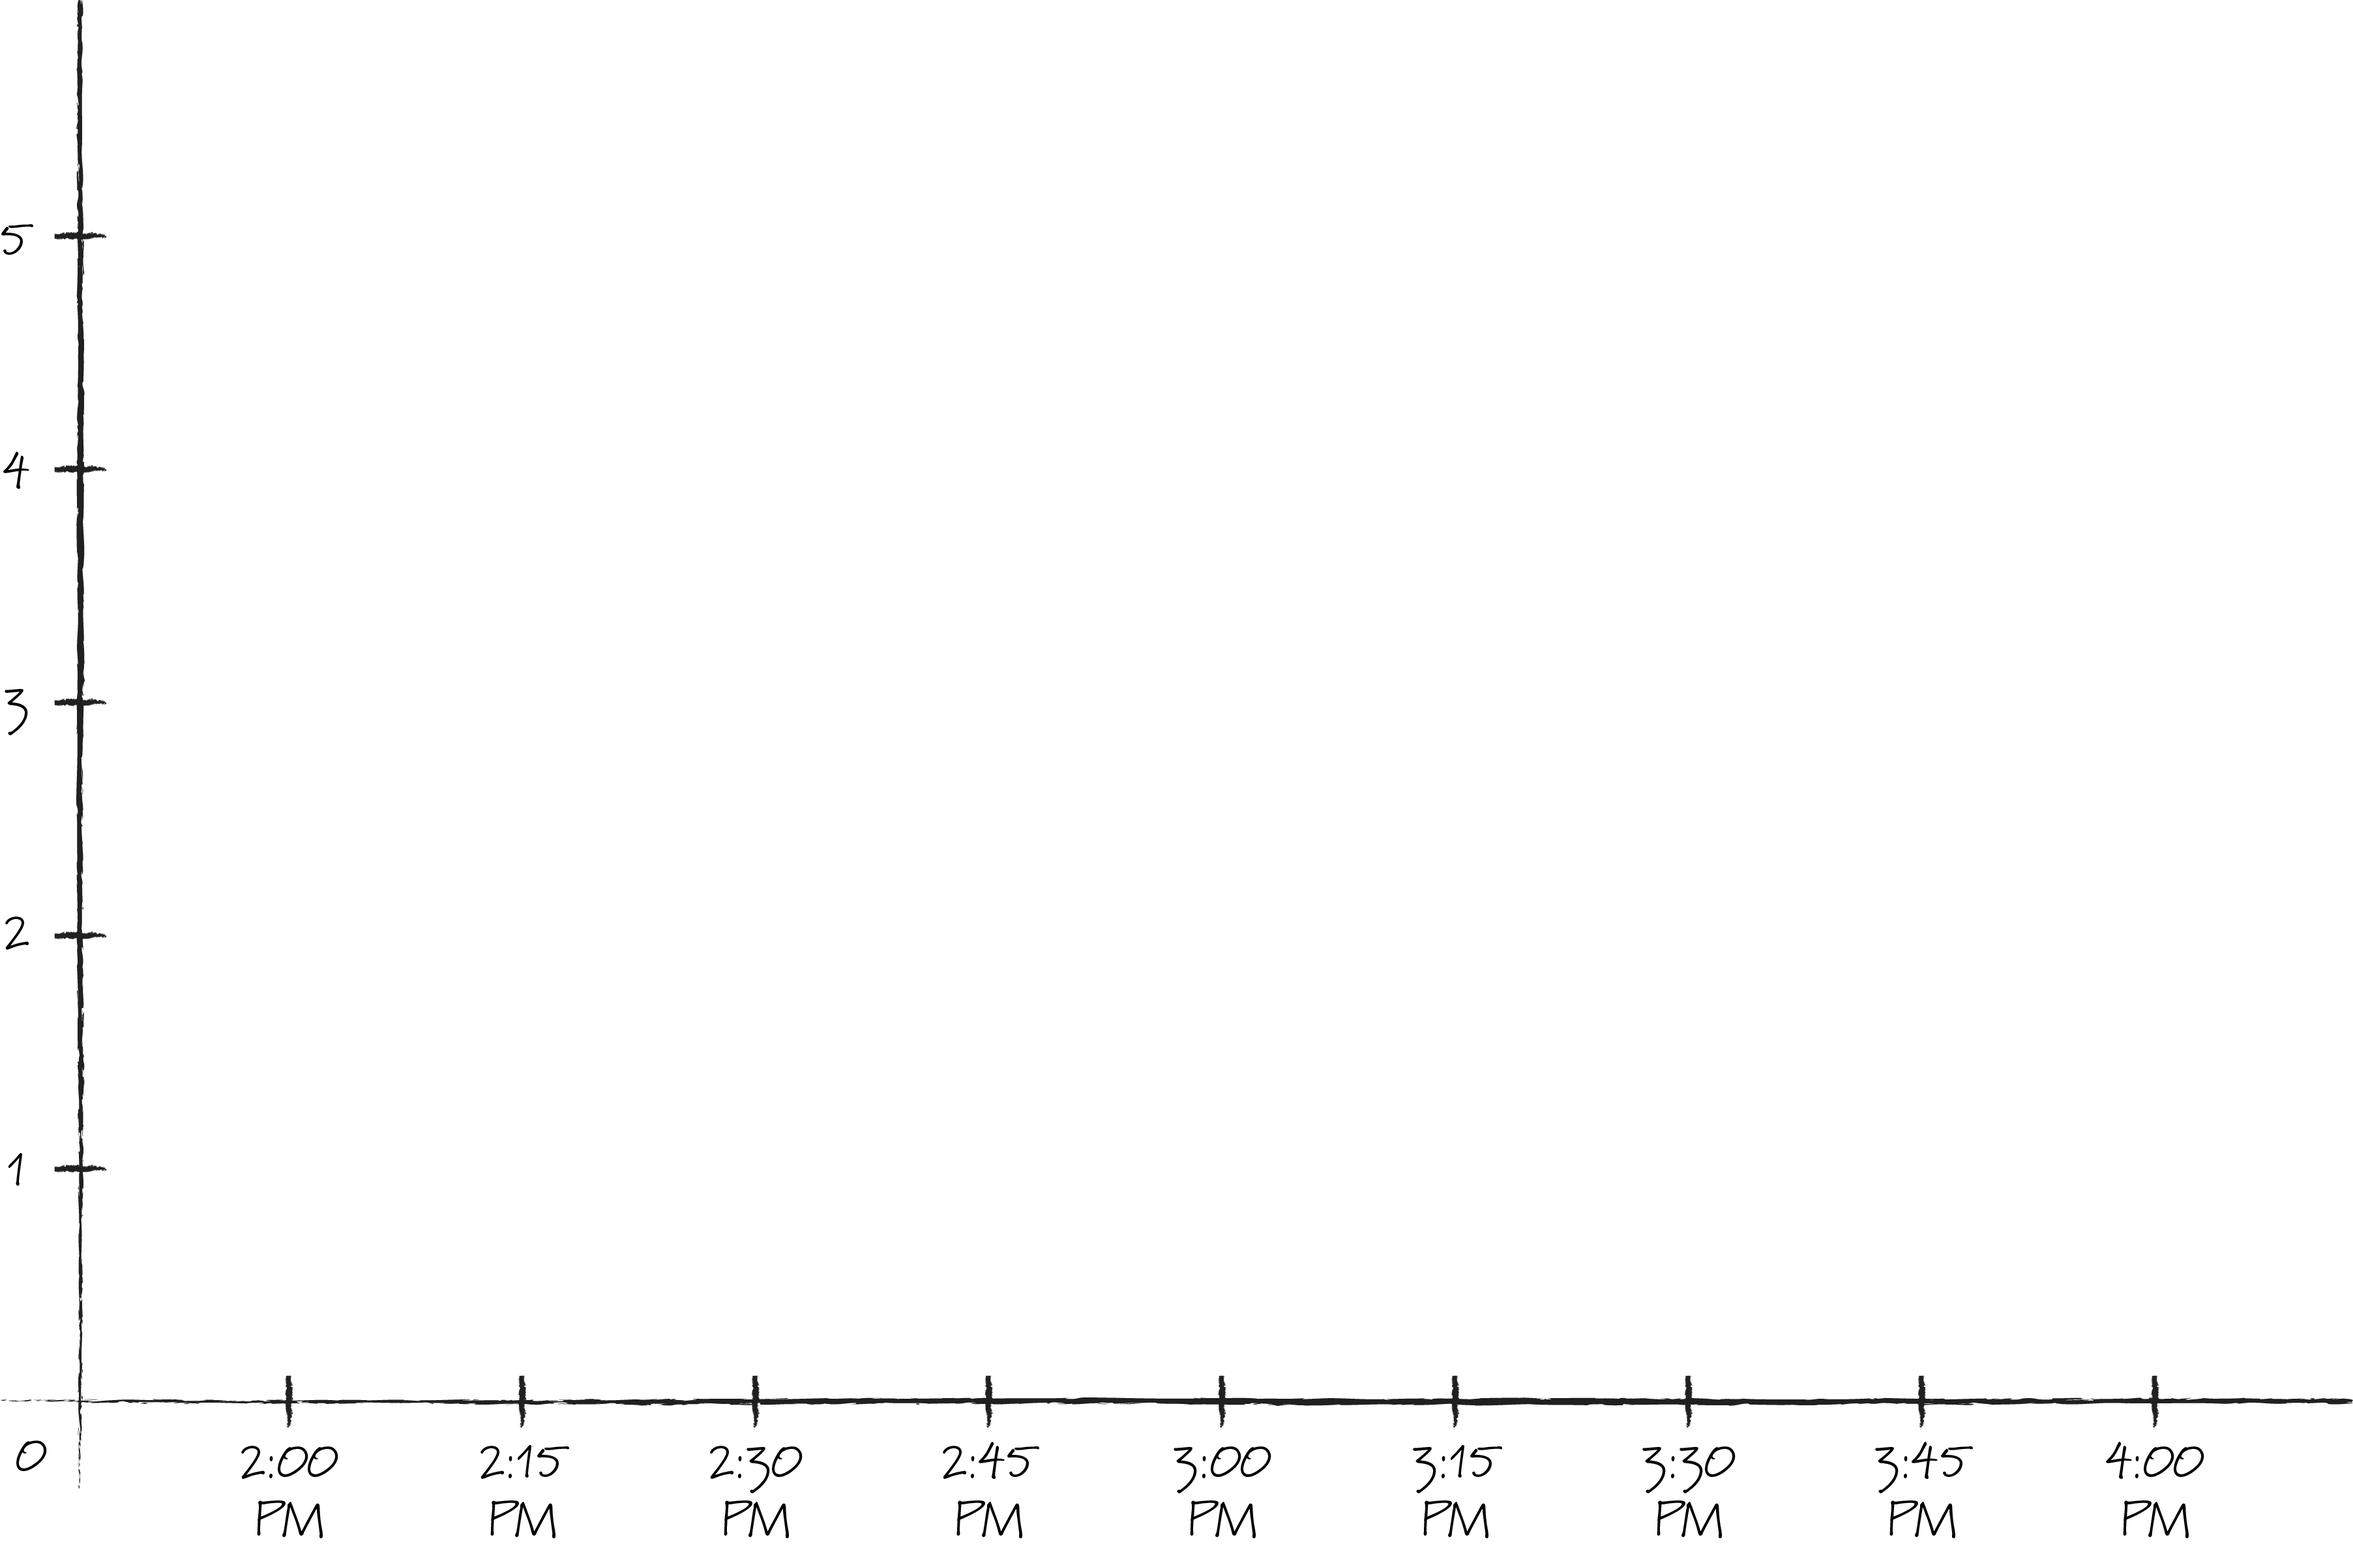
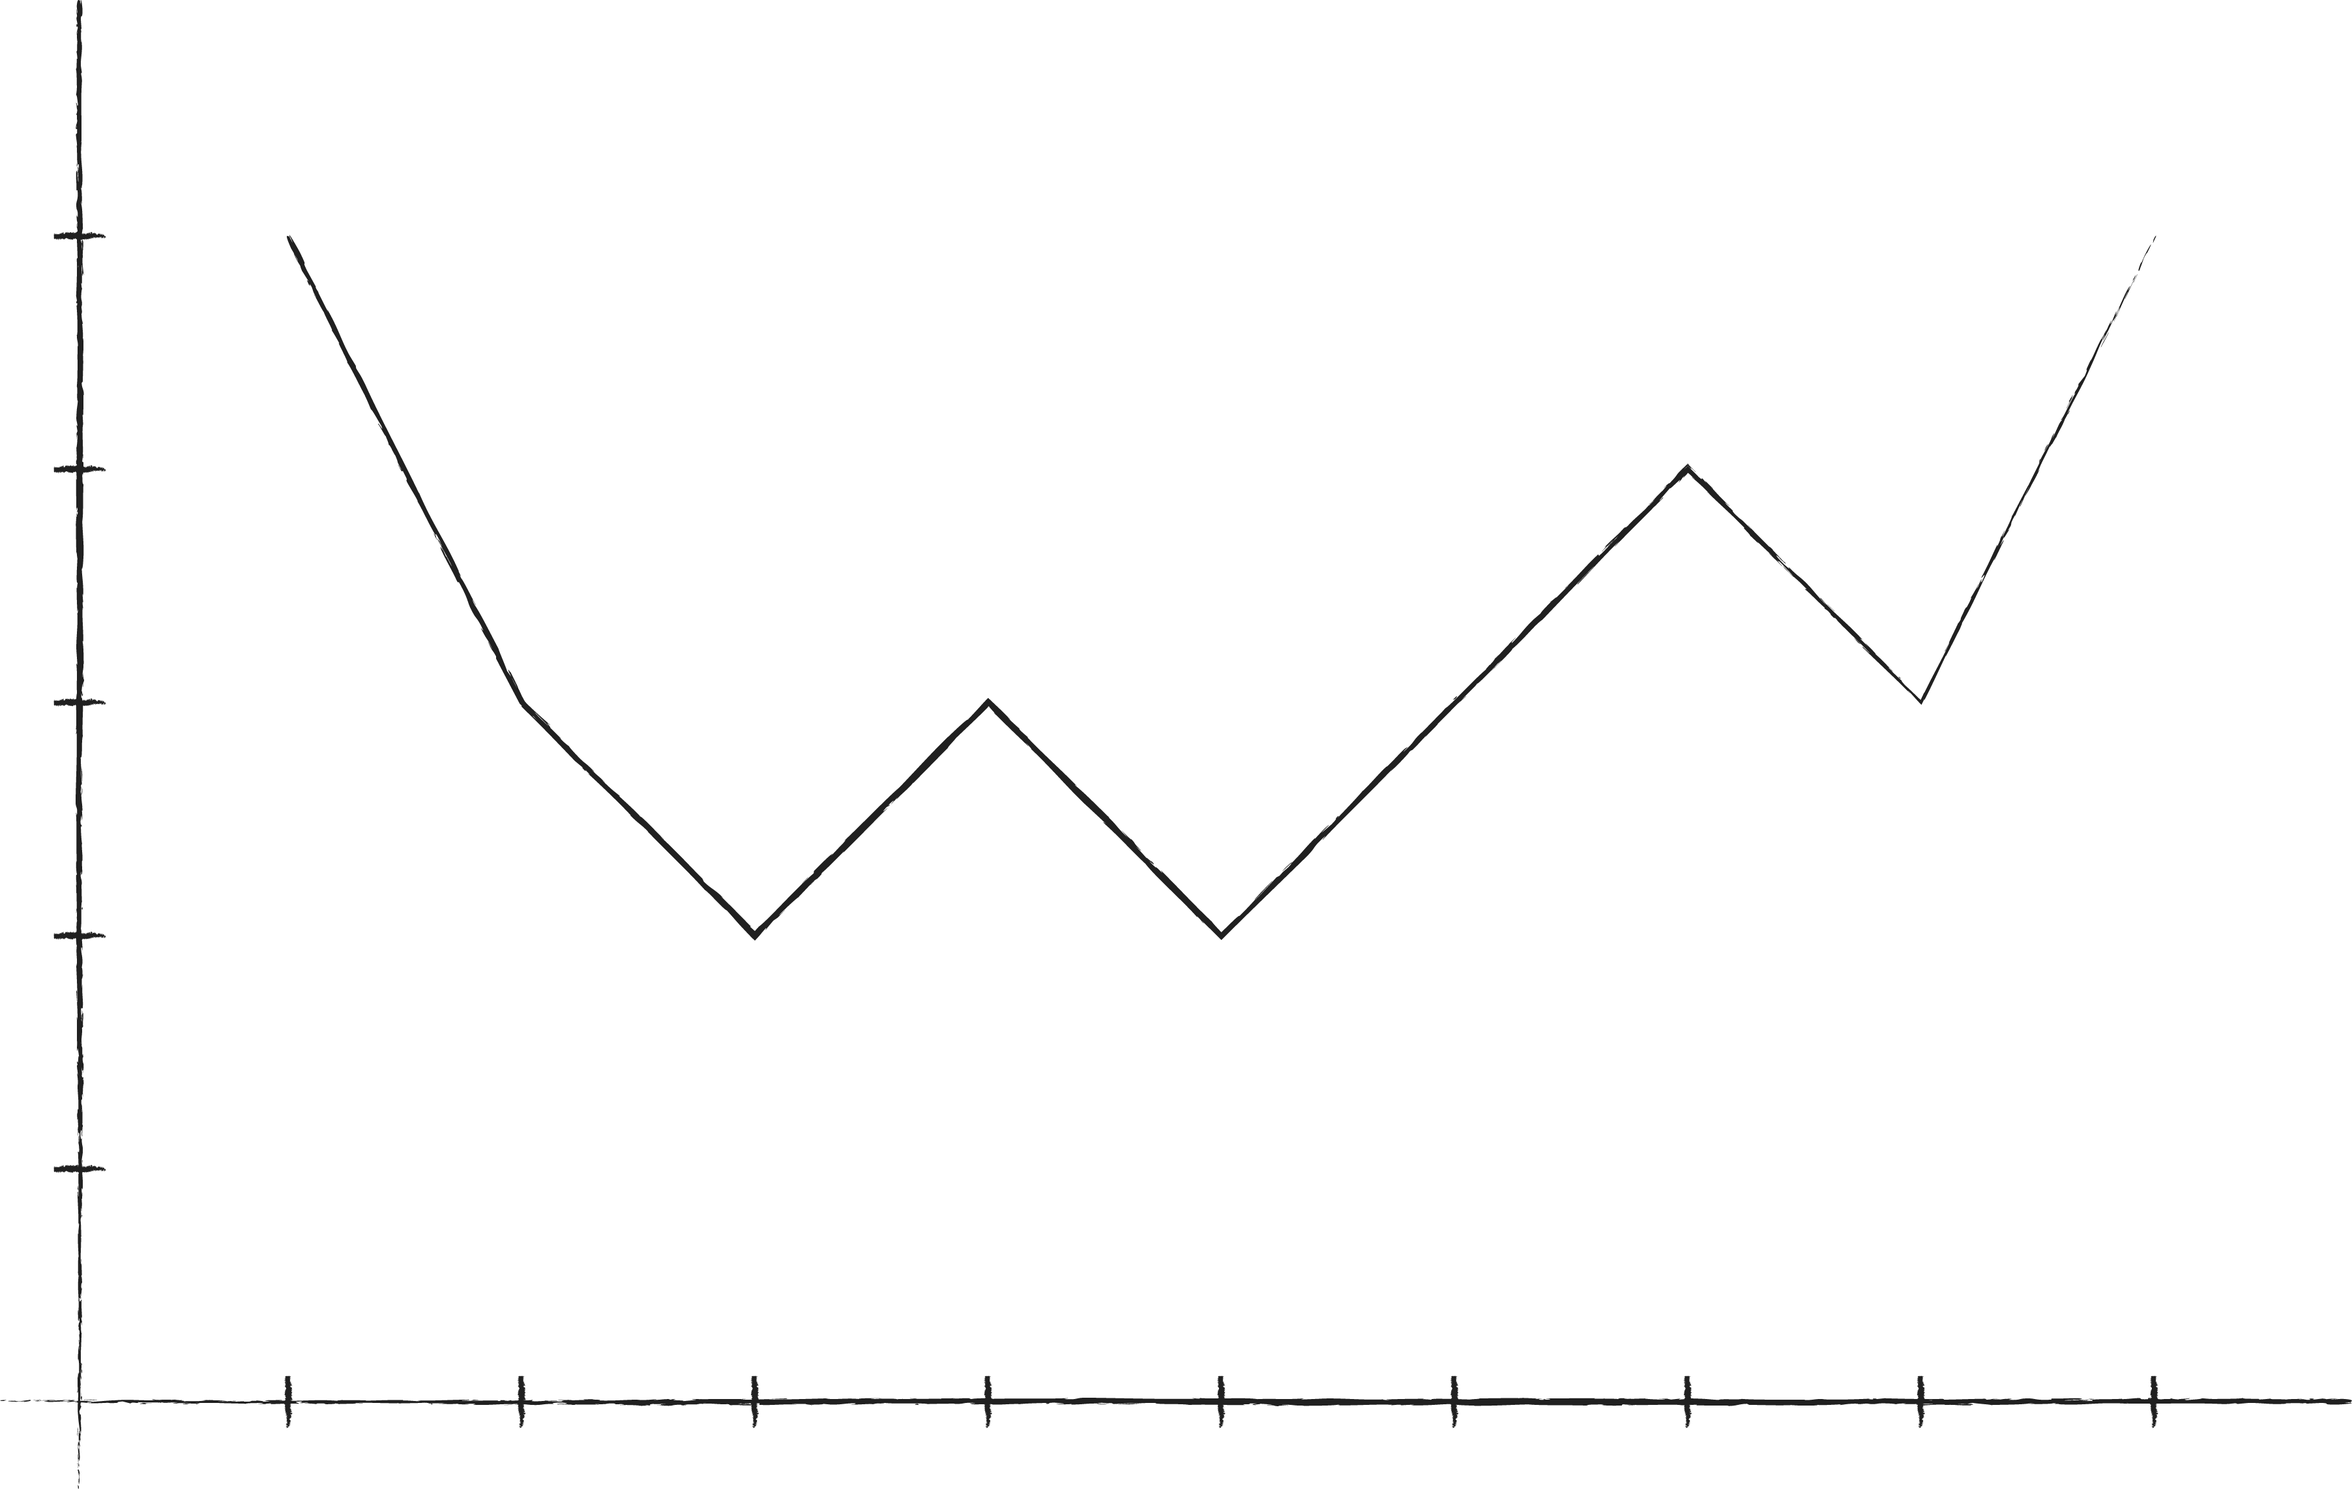
check yourself project finished

diff --git a/studio2/styles.css b/studio2/styles.css
@@ -41,25 +41,28 @@ img {
 #x-axis {
     position: absolute;
     left: 20%;
-    bottom: 2%;
+    bottom: -4%;
 }
 
 #x-axis ul {
     display: flex;
     gap: 9.5%;
+    text-align: center;
 }
 
 #x-axis-title {
     position: absolute;
     left: 50%;
+    bottom: -15%;
     transform: translate(-50%, -50%);
     margin-top: 20px;
+    text-align: center;
 }
 
 #y-axis {
     position: absolute;
     top: 14%;
-    left: 10%;
+    left: 12.5%;
 
 }
 
@@ -72,7 +75,106 @@ img {
 #y-axis-title {
     position: absolute;
     top: 50%;
+    left: 3%;
     transform: translate(0, -50%);
     width: 3em;
     text-align: center;
 }
+
+#dots {
+    position: absolute;
+    top: 0; left: 0;
+    width: 100%; height: 100%;
+    pointer-events: none;
+}
+
+.dot {
+    position: absolute;
+    width: 20px; 
+    height: 20px;
+    border-radius: 50%;
+    background-color: #f7931e;
+    cursor: pointer;
+    transition: transform 0.2s ease;
+    pointer-events: all;
+  }
+
+.dot:hover {
+    transform: scale(1.2);
+}
+
+#dot1 {
+    top: 14%;
+    left: 21%;
+    background-color: rgb(255, 197, 90);
+}
+
+#dot2 {
+    top: 45.2%;
+    left: 28.3%;
+    background-color: rgb(114, 114, 114);
+}
+
+#dot3 {
+    top: 60%;
+    left: 35.7%;
+    background-color: rgb(255, 82, 82);
+}
+
+#dot4 {
+    top: 45.2%;
+    left: 43.2%;
+    background-color: rgb(77, 182, 77);
+}
+
+#dot5 {
+    top: 60%;
+    left: 50.7%;
+    background-color: rgb(71, 71, 71);
+}
+
+#dot6 {
+    top: 45.2%;
+    left: 58.2%;
+    background-color: rgb(71, 71, 71);
+}
+
+#dot7 {
+    top: 30%;
+    left: 65.5%;
+    background-color: rgb(94, 94, 248);
+}
+
+#dot8 {
+    top: 44%;
+    left: 73%;
+    background-color: rgb(77, 182, 77);
+}
+
+#dot9 {
+    top: 14%;
+    left: 80.3%;
+    background-color: rgb(255, 186, 59);
+}
+
+#detail-overlay {
+    position: fixed;
+    background: white;
+    padding: 1em;
+    border-radius: 8px;
+    box-shadow: 0 2px 10px rgba(0,0,0,0.3);
+    opacity: 0;
+    transform: scale(0);
+    z-index: 1000;
+    transition: all 0.3s ease;
+}
+
+
+#detail-overlay .close-btn {
+    position: absolute;
+    top: 0.5em; right: 0.5em;
+    cursor: pointer;
+    font-size: 1.2em;
+    line-height: 1;
+}
+

diff --git a/studio2/script.js b/studio2/script.js
@@ -1,0 +1,43 @@
+async function fetchJson() {
+    const response = await fetch('data.json');
+    const data = await response.json();
+    const overlay = document.querySelector('#detail-overlay');
+    const dots = document.querySelectorAll('.dot');
+
+    for (let i = 0; i < dots.length; i++){
+        const dot = dots[i];
+        if (dot.id === `dot${i+1}`){
+            dot.addEventListener('click', function(){
+                const entry = data[i];
+
+                document.querySelector('#overlay-time').textContent = entry.time + ' PM';
+                document.querySelector('#overlay-score').textContent = entry['mood-score'];
+                document.querySelector('#overlay-mood').textContent = entry.mood;
+                document.querySelector('#overlay-reason').textContent = entry.reason;
+
+                const dotRect = dot.getBoundingClientRect();
+                const overlayRect = overlay.getBoundingClientRect();
+                console.log(dotRect, overlayRect);
+        
+                const margin = 10;
+                overlay.style.top = `${dotRect.top - overlayRect.height - margin}px`;
+                overlay.style.left = `${dotRect.left + dotRect.width/2 - overlayRect.width/2}px`;
+                console.log(overlay.style.top, overlay.style.left);
+
+                overlay.style.opacity = '1';
+                overlay.style.transform = 'scale(1)';
+            });
+        }
+    }
+}
+
+fetchJson();
+
+const closeBtn = document.querySelector('#detail-overlay .close-btn');
+if (closeBtn){
+    closeBtn.addEventListener('click', function(){
+        document.querySelector('#detail-overlay').style.opacity = '0';
+        document.querySelector('#detail-overlay').style.transform = 'scale(0)';
+    });
+}
+

diff --git a/studio2/index.html b/studio2/index.html
@@ -40,6 +40,28 @@
             </ul>
         </div>
         <h2 id="y-axis-title">Mood Score</h2>
+
+        <div id="dots">
+            <div class="dot" id="dot1"></div>
+            <div class="dot" id="dot2"></div>
+            <div class="dot" id="dot3"></div>
+            <div class="dot" id="dot4"></div>
+            <div class="dot" id="dot5"></div>
+            <div class="dot" id="dot6"></div>
+            <div class="dot" id="dot7"></div>
+            <div class="dot" id="dot8"></div>
+            <div class="dot" id="dot9"></div>
+        </div>
+        
     </section>
+
+    <div id="detail-overlay">
+        <span class="close-btn">&times;</span>
+        <h3 id="overlay-time"></h3>
+        <p><strong>Mood Score:</strong> <span id="overlay-score"></span></p>
+        <p><strong>Mood:</strong> <span id="overlay-mood"></span></p>
+        <p><strong>Reason:</strong> <span id="overlay-reason"></span></p>
+    </div>
+  
 </body>
 </html>
